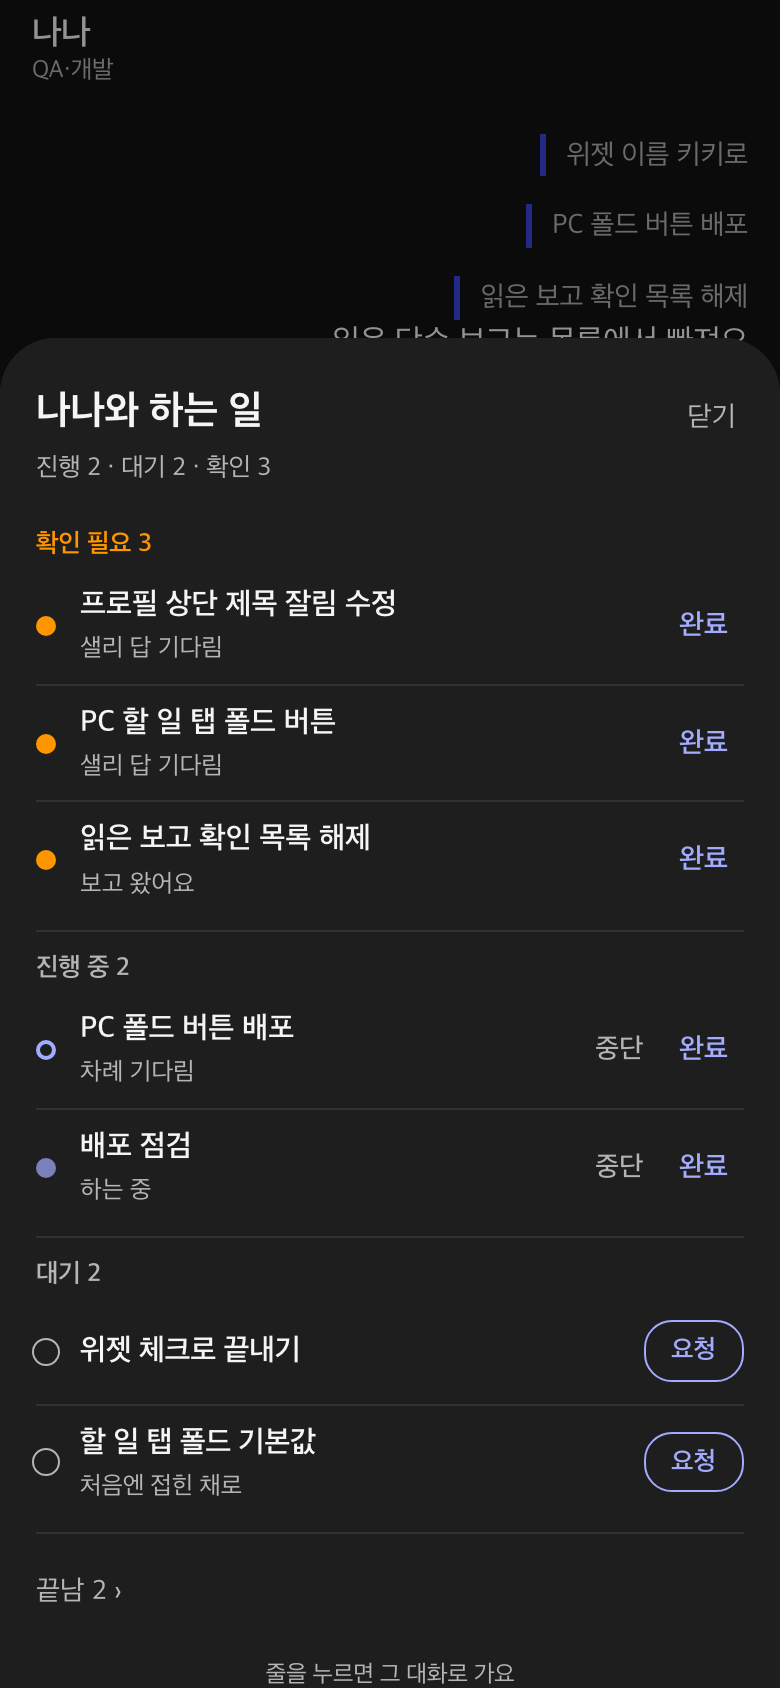
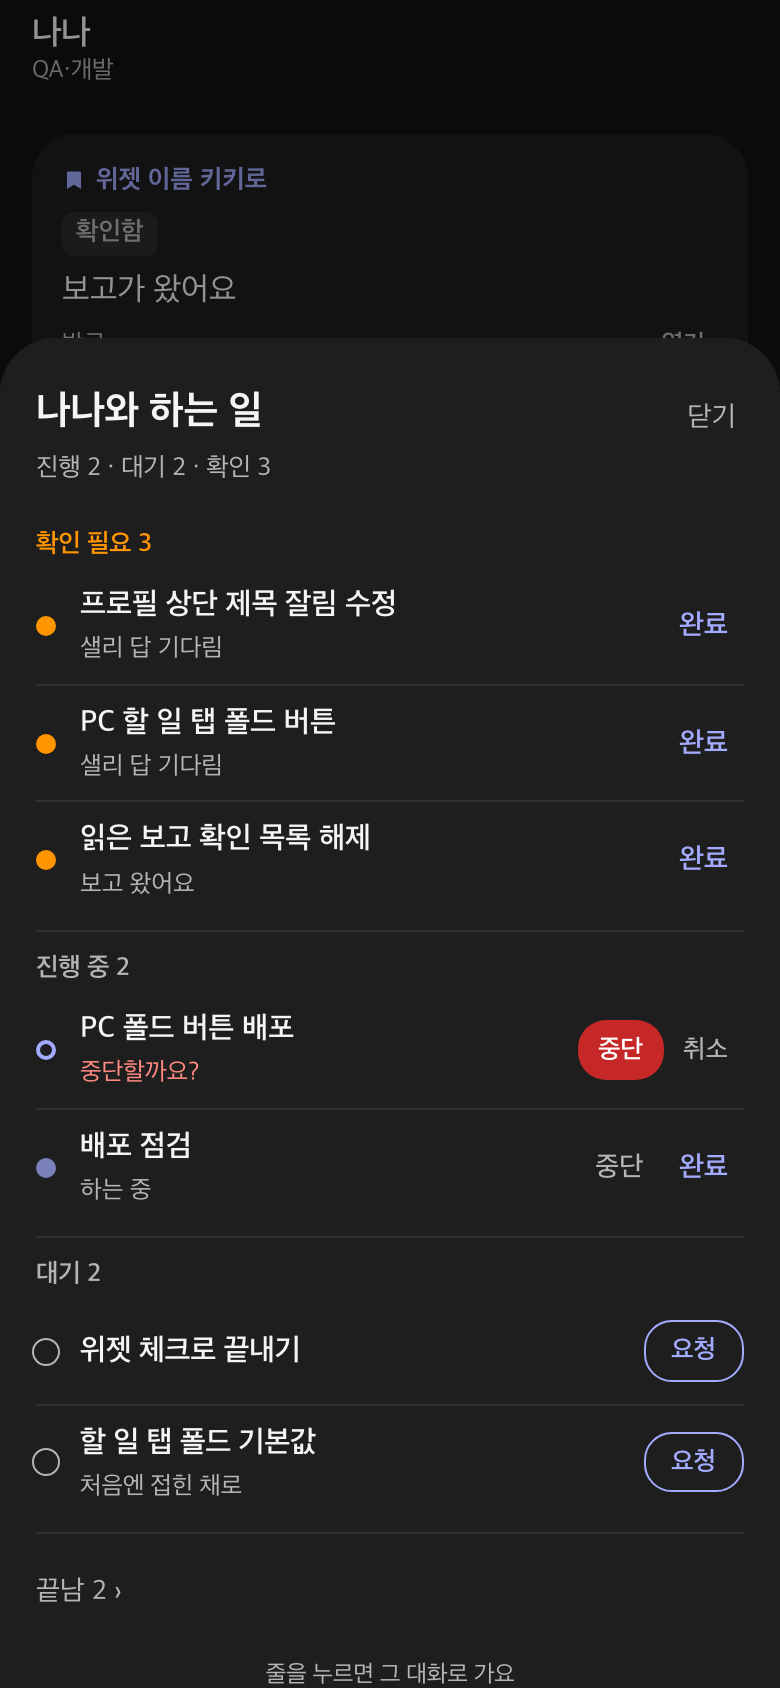
Deploy kiki-todo-crew-page → public-pages/ (redeploy, 2026-11-01)

diff --git a/kiki-todo-crew-page/index.html b/kiki-todo-crew-page/index.html
@@ -9,9 +9,9 @@ figure{margin:0}img{width:100%;border-radius:12px;border:1px solid var(--line);d
 <h1>할 일·맡기기 위젯과 크루 페이지</h1>
 <p class="sub">11월 1일 · 위젯은 집맥에 설치 완료, 크루 페이지는 배포 전 확인용</p>
 <p class="band">위젯 두 개는 지금 바로 쓸 수 있습니다. 크루네 크루 페이지는 아래 시안과 실제 화면을 보고 「배포해」라고 하시면 올립니다.</p>
-<section><h2>다시 만든 화면 · 「나나와 하는 일」 (책갈피 모양, 2차)</h2><p class="sub">1차 「방 업무」는 칸 4개를 오가야 하고 줄이 커서 한 화면에 2건만 보였어요. 칸을 없애고 한 장 목록으로 바꿨습니다.</p>
-<figure><img src="img/room-work.png" alt="하는 일 시안"><figcaption>시안: ① 단추 하나 · 급한 것만 숫자 ② 한 장 목록 · 상태별로 묶음 ③ 중단은 한 번 더 확인</figcaption></figure>
-<div class="shots"><figure><img src="img/rw-button.png" alt="단추"><figcaption>실제 화면 · 단추(주황 숫자 = 확인 필요)</figcaption></figure><figure><img src="img/rw-doing.png" alt="목록"><figcaption>한 장 목록</figcaption></figure><figure><img src="img/rw-wait.png" alt="중단 확인"><figcaption>중단 재확인</figcaption></figure><figure><img src="img/rw-review.png" alt="다크"><figcaption>다크 모드</figcaption></figure></div>
+<section><h2>다시 만든 화면 · 「나나와 하는 일」 + 말풍선 업무 제목 (3차)</h2><p class="sub">채팅방 말풍선마다 맨 위에 업무 제목이 붙어 어떤 업무 이야기인지 바로 보여요. 하는 일 목록도 같은 제목을 쓰고, 중단 확인은 「중단」 한 단어로 줄였습니다.</p>
+<figure><img src="img/room-work.png" alt="하는 일 시안"><figcaption>시안: ① 말풍선마다 업무 제목 ② 목록도 같은 제목 ③ 중단 확인은 짧게</figcaption></figure>
+<div class="shots"><figure><img src="img/rw-button.png" alt="단추"><figcaption>실제 화면 · 말풍선 업무 제목, 오른쪽 아래 단추</figcaption></figure><figure><img src="img/rw-doing.png" alt="목록"><figcaption>한 장 목록</figcaption></figure><figure><img src="img/rw-wait.png" alt="중단 확인"><figcaption>중단 재확인</figcaption></figure><figure><img src="img/rw-review.png" alt="다크"><figcaption>중단 확인 · 다크 모드</figcaption></figure></div>
 <ul><li>순서: 확인 필요 → 진행 중 → 대기 → 끝남(접힘)</li><li>진행 중: 「중단」은 한 번 더 확인, 「완료」는 멈춘 것을 확인한 뒤 끝남으로</li><li>대기: 「요청」을 누르면 바로 새 업무로 보내요</li><li>확인 필요: 「완료」로 끝남으로</li><li>줄을 누르면 그 업무 말풍선으로 가서 잠깐 강조돼요. 아직 배포 전, 시험 자료 화면이에요.</li></ul></section>
 <section><h2>0. 업무 대화에 「진행 상황」 붙이기 (새 시안)</h2><p class="sub">지금은 대화만 쌓여서 무엇을 끝냈고 무엇이 남았는지 보기 어렵습니다. 대화 위에 진행 상황 카드를 두는 두 가지 안입니다.</p>
 <figure><img src="img/progress.png" alt="진행 상황 시안"><figcaption>A 회차로 보기 · B 단계 체크리스트 · 크루 페이지 채팅 줄 진행 막대</figcaption></figure>
@@ -21,7 +21,7 @@ figure{margin:0}img{width:100%;border-radius:12px;border:1px solid var(--line);d
 <section><h2>1. 크루네 크루 페이지 시안</h2><p class="sub">크루마다 할 일과 채팅을 한 화면에 모았습니다. 할 일 탭에서 크루 줄을 누르면 이 페이지가 열립니다.</p>
 <figure><img src="img/mockup.png" alt="크루 페이지 시안"><figcaption>시안: 크루 페이지 할 일 · 채팅, 할 일 탭에 더한 「크루 할 일」</figcaption></figure></section>
 <section><h2>2. 실제로 만든 화면</h2><p class="sub">운영 중인 크루네 코드 위에 만든 실제 화면입니다. 시험 자료로 띄웠습니다.</p>
-<div class="g"><figure><img src="img/crew-light.png" alt=""><figcaption>나나 페이지 · 할 일</figcaption></figure><figure><img src="img/chats-light.png" alt=""><figcaption>나나 페이지 · 채팅</figcaption></figure><figure><img src="img/todo-light.png" alt=""><figcaption>할 일 탭 「크루 할 일」</figcaption></figure><figure><img src="img/crew-dark.png" alt=""><figcaption>다크 모드</figcaption></figure></div>
+<div class="g"><figure><img src="img/crew-light.png" alt=""><figcaption>나나 페이지 · 할 일</figcaption></figure><figure><img src="img/chats-light.png" alt=""><figcaption>나나 페이지 · 채팅</figcaption></figure><figure><img src="img/todo-light.png" alt=""><figcaption>할 일 탭 「크루 할 일」</figcaption></figure><figure><img src="img/crew-dark.png" alt=""><figcaption>중단 확인 · 다크 모드</figcaption></figure></div>
 <ul><li>할 일 칸: 하는 중 · 샐리 답 기다림 · 확인 기다림(멈춘 일 포함) · 나중에 맡길 일</li><li>「맡기기」를 누르면 그 크루 방 입력칸에 내용이 채워져 열립니다(할 일 탭과 같은 방식)</li><li>채팅 칸: 그 크루와 나눈 대화 최신순, 누르면 그 대화로</li><li>프로필(성격·말투)은 아래 「프로필」 단추로 기존 화면을 엽니다</li></ul></section>
 <section><h2>3. 위젯(설치 완료)</h2><p class="sub">바탕화면 우클릭 → 위젯 편집 → 키키에서 「할 일」「맡기기」를 추가하세요.</p>
 <div class="g"><figure><img src="img/todo-large2.png" alt=""><figcaption>할 일(큰) — 내 할 일 + 크루 할 일</figcaption></figure><figure><img src="img/ask-medium2.png" alt=""><figcaption>맡기기(중간) — 말로·글로 + 최근 맡긴 일</figcaption></figure></div>
